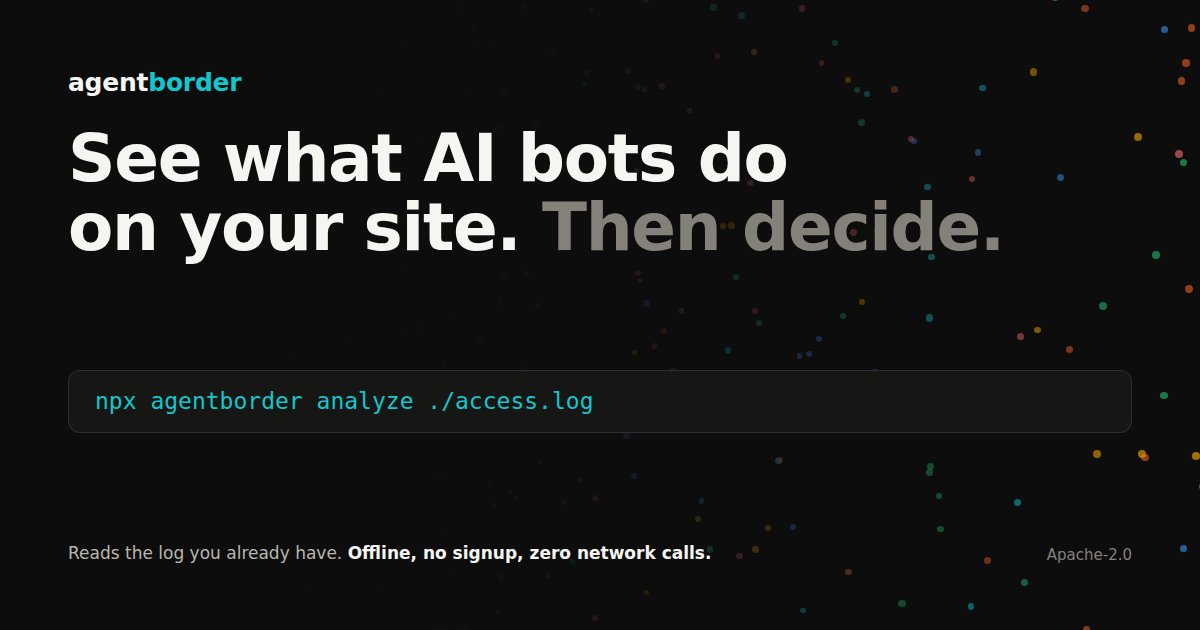
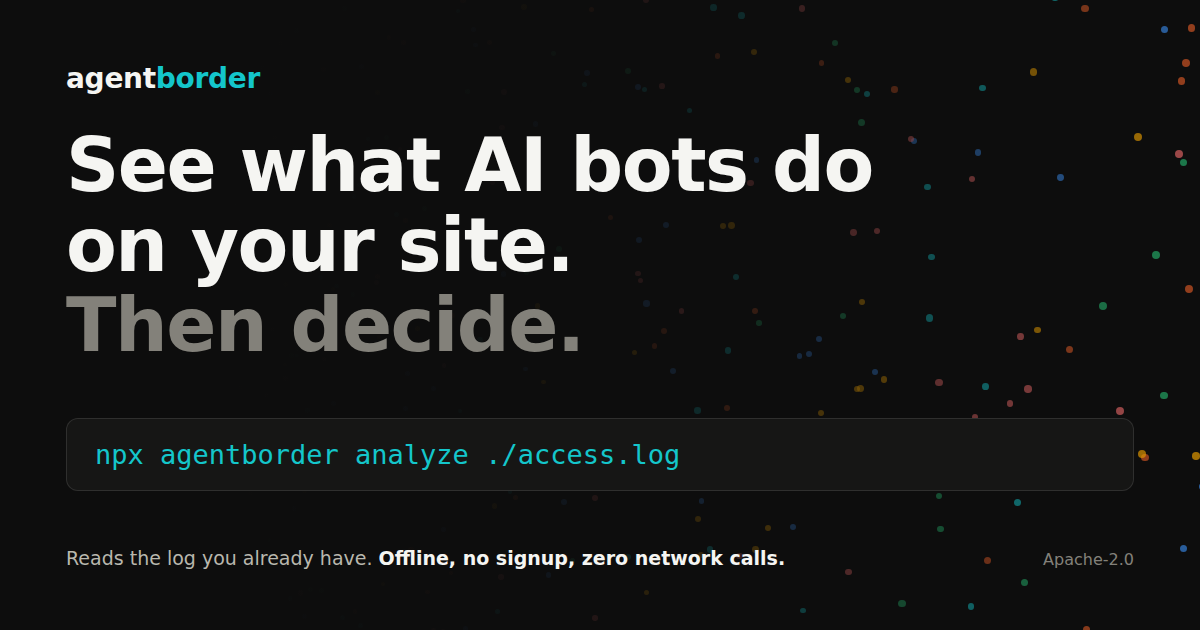
Bigger type on the share card, and a link title that adds information instead of repeating the image

diff --git a/docs/index.html b/docs/index.html
@@ -9,14 +9,14 @@
 <meta property="og:type" content="website">
 <meta property="og:site_name" content="agentborder">
 <meta property="og:url" content="https://agentborder.com/">
-<meta property="og:title" content="See what AI bots do on your site. Then decide.">
-<meta property="og:description" content="One command reads the access log you already have. Which AI crawlers and agents hit you, what they took, and who ignored your robots.txt. Offline, no signup, Apache-2.0.">
+<meta property="og:title" content="Which AI bots hit your site, and who ignored your robots.txt">
+<meta property="og:description" content="One command reads the access log you already have. 51 documented bots matched by name, bytes and peak rate each, robots.txt violations counted per RFC 9309. Runs offline, Apache-2.0.">
 <meta property="og:image" content="https://agentborder.com/og.png">
 <meta property="og:image:width" content="1200">
 <meta property="og:image:height" content="630">
 <meta name="twitter:card" content="summary_large_image">
-<meta name="twitter:title" content="See what AI bots do on your site. Then decide.">
-<meta name="twitter:description" content="One command reads the access log you already have. Offline, no signup, Apache-2.0.">
+<meta name="twitter:title" content="Which AI bots hit your site, and who ignored your robots.txt">
+<meta name="twitter:description" content="One command reads the access log you already have. Runs offline, no signup, Apache-2.0.">
 <meta name="twitter:image" content="https://agentborder.com/og.png">
 <style>
 :root{
